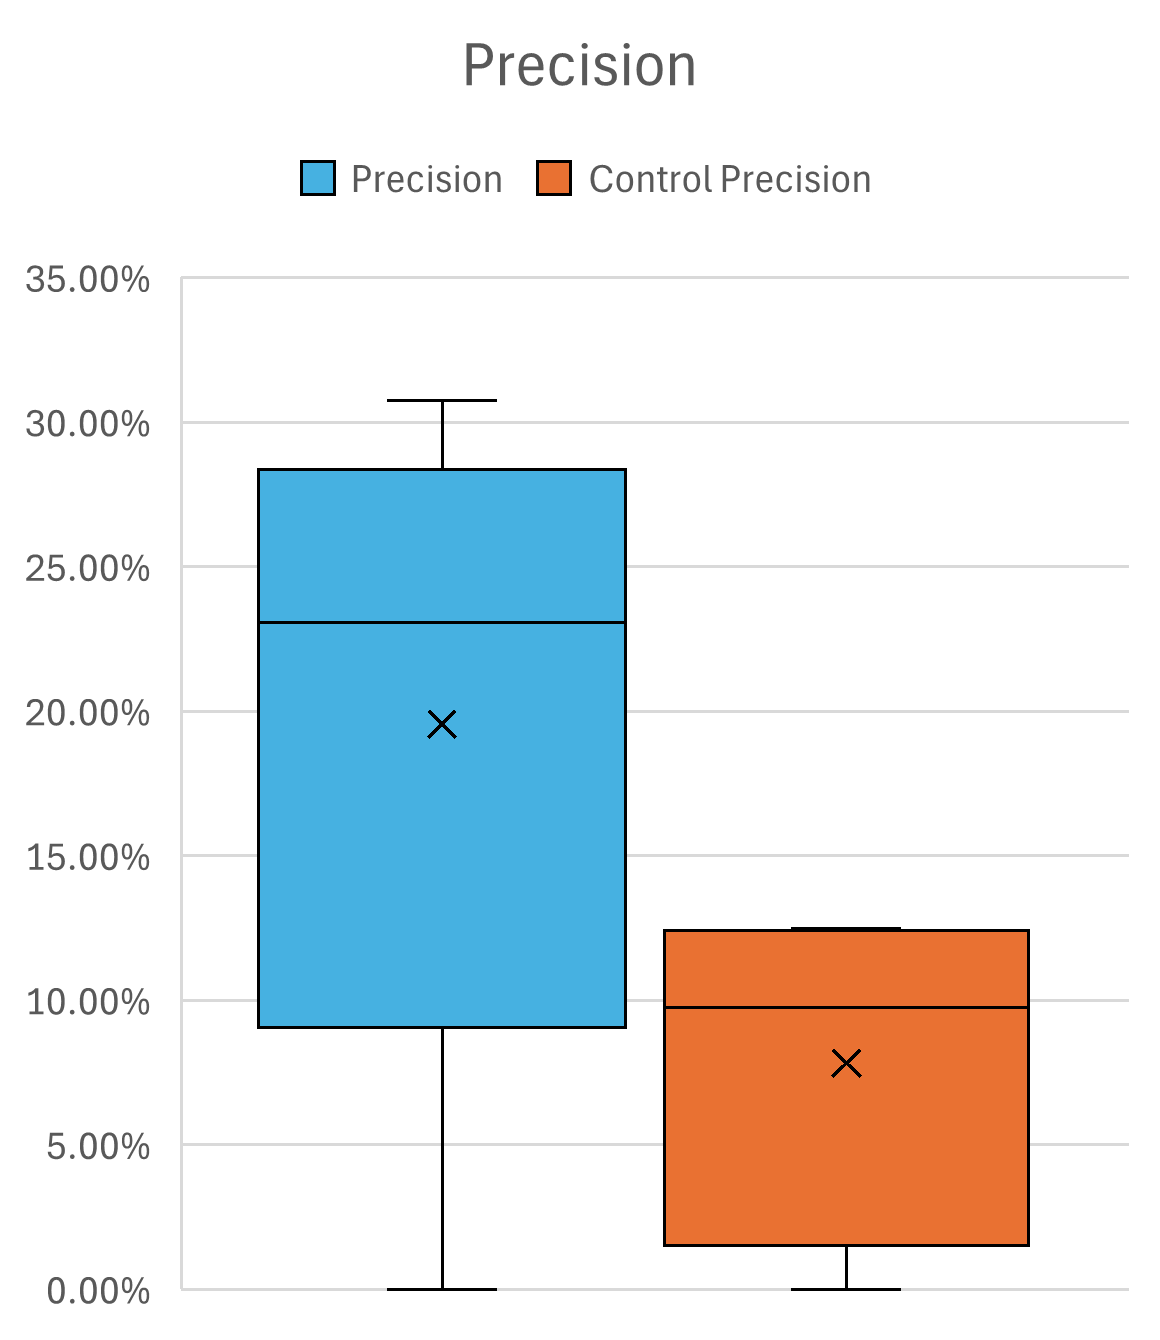
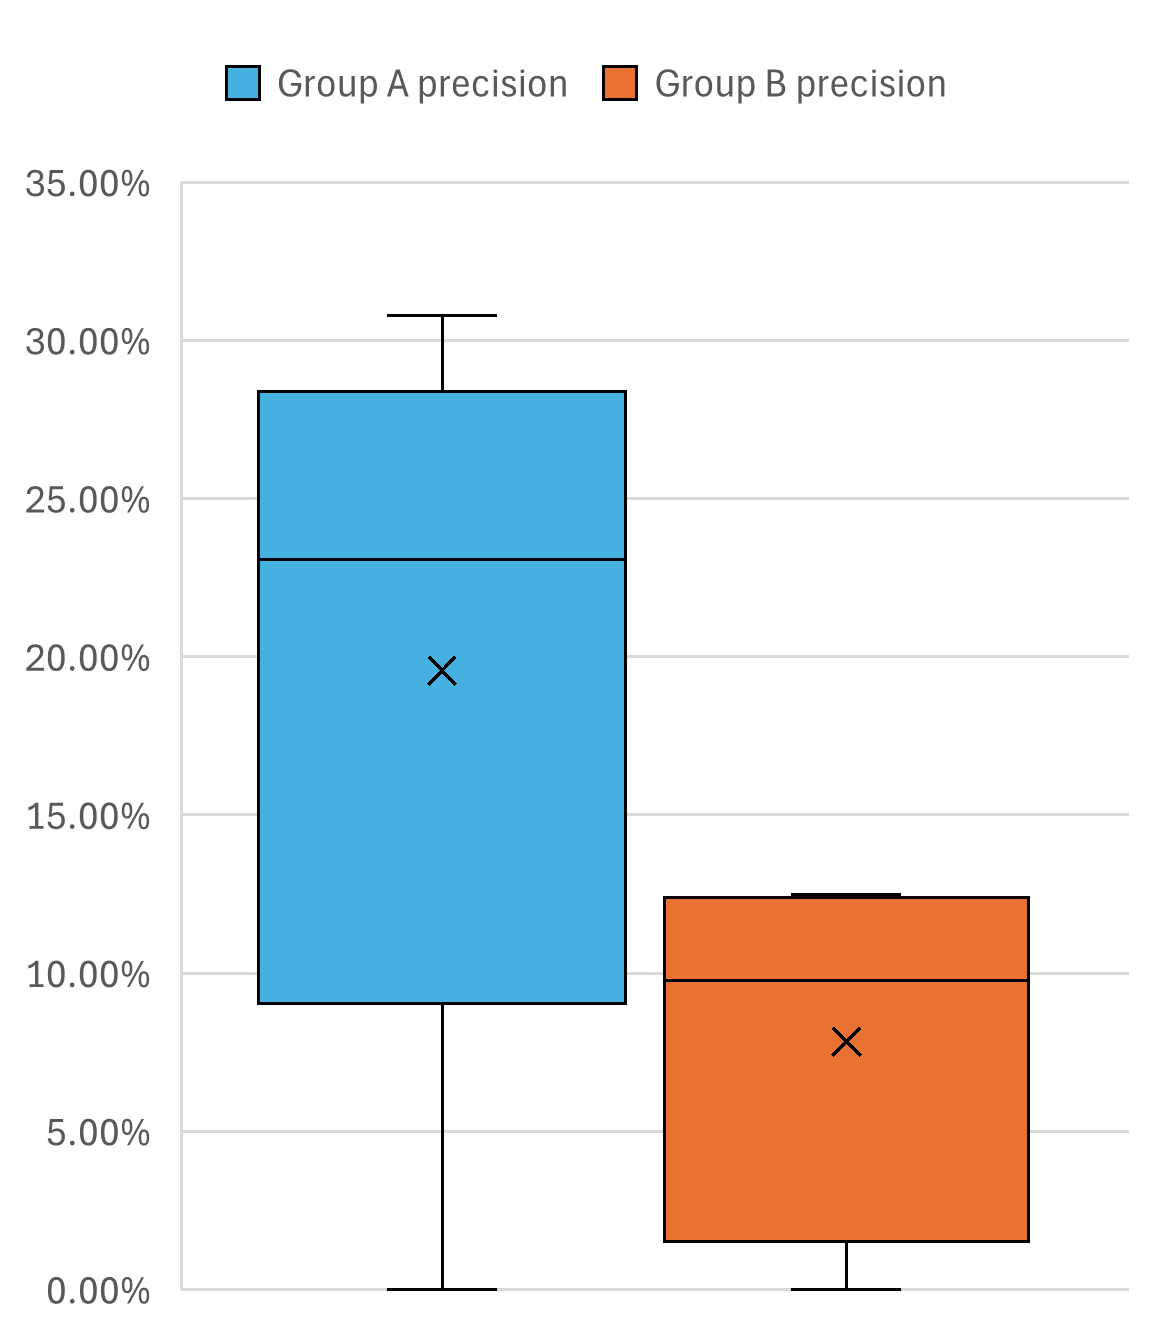
Progress through methods

diff --git a/Full_paper_D1.tex b/Full_paper_D1.tex
@@ -7,6 +7,8 @@
 \usepackage{graphicx}
 \usepackage{textcomp}
 \usepackage{xcolor}
+\usepackage{tikz}
+\usetikzlibrary{positioning}
 \def\BibTeX{{\rm B\kern-.05em{\sc i\kern-.025em b}\kern-.08em
     T\kern-.1667em\lower.7ex\hbox{E}\kern-.125emX}}
 \begin{document}
@@ -20,6 +22,9 @@
 Cookeville, United States \\
 doanefranklin89@gmail.edu}
 }
+
+% talk about the goal of the penalty somewhere
+% chart outlines?
 
 \maketitle
 
@@ -35,26 +40,128 @@ doanefranklin89@gmail.edu}
 
 \section{Related work}
 
-\subsection{LSTMs for market prediction}
-Mei Sun, Qingtau Li, and Peiguang Lang, published work that was focused on using LSTM architecture for market price prediction \cite{b1}. 
-Much like this work, they were aiming to use LSTM architecture for short-term price prediction; however, their focus was heavily on featuring engineering through the use of singular value composition (SVD).
-Qi Li, Norshaliza Kamaruddin, Siti Sophiayati Yuhaniz and Hamdan Amer Ali Al-Jaifi also have done work in this area \cite{b2}. Their work was on the use of LSTMs for price prediction. They aimed to augment it with the use of Symbolic Genetic Programming (SGP).
-While both of these use combine different methods with LSTM architecture to predict market prices, this work is distinct it its use of penalties for model logits.
+    \subsection{LSTMs for market prediction}
+    Mei Sun, Qingtau Li, and Peiguang Lang, published work that was focused on using LSTM architecture for market price prediction \cite{b1}. 
+    Much like this work, they were aiming to use LSTM architecture for short-term price prediction; however, their focus was heavily on featuring engineering through the use of singular value composition (SVD).
+    Qi Li, Norshaliza Kamaruddin, Siti Sophiayati Yuhaniz and Hamdan Amer Ali Al-Jaifi also have done work in this area \cite{b2}. Their work was on the use of LSTMs for price prediction. They aimed to augment it with the use of Symbolic Genetic Programming (SGP).
+    While both of these use combine different methods with LSTM architecture to predict market prices, this work is distinct it its use of penalties for model logits.
 
-\subsection{Penalizing models for market prediction}
-Huifeng Jiang, Xuemei Hu, and Hong Jia explored different methods of penalizing logistic regressors in order to increase their performance as market indicators \cite{b3}. The authors explore penalties that apply to all model coefficients. In this work, the penalties being explored will apply only to model logits.
+    \subsection{Penalizing models for market predictiton}
+    Huifeng Jiang, Xuemei Hu, and Hong Jia explored different methods of penalizing logistic regressors in order to increase their performance as market indicators \cite{b3}. The authors explore penalties that apply to all model coefficients. In this work, the penalties being explored will apply only to model logits.
 
-% go one level deeper on these
+    % go one level deeper on these
 
-\section{Significance of using size penalty}
-    \begin{figure}[htbp]
-    \centerline{\includegraphics[width=\columnwidth]{paper_imgs/CI_chart.png}}
-    \caption{Title}
-    \label{fig2}
-    \end{figure}
+\section{Investigating size penalty significance}
+
+    \subsection{General Methods}
+
+        \subsubsection{Dataset Creation}
+            The all datasets were created by downloading data consisting of daily OHLCV values for each stock being used. The list of stocks being used was determined by picking the 1500 stocks with the largest market cap that also have data for the time periods that the datasets intend to cover.
+
+        \subsubsection{Training Setup}
+            The dataset is loaded and the day of the week is 1-hot-encoded into 5 separate features that are added.
+            The data then gets cut into time series, each with a length of 50. The data from the day following each time series is used to create the label, which consist of the relative increase in high price and low price compared to the close price of the previous day.
+            Each training example gets all of it's price data normalized together on a scale of -1 to 1. Similarly, the volume data gets normalized on a scale of -1 to 1.
+            15\% of the training examples are sliced off of the back of the dataset to become the validation set.
+            The ordering of the training set gets shuffled according to a random seed.
+            The training data gets split into whole batches of size 200.
+            The model is initialized with random parameters. The model architecture is depicted in ``Fig.~\ref{fig1}''.
+
+            % figure created with major help from ChatGPT
+            \begin{figure}[htbp]
+                \centering
+                \tikzset{%
+                    layer/.style={rectangle, draw, minimum width=2.5cm, minimum height=0.7cm, text centered, rounded corners},
+                    arrow/.style={->, thick}
+                }
+
+                \begin{tikzpicture}[node distance=0.6cm]
+                    % Layers
+                    \node[layer] (input) {Input: 50$\times$10};
+                    \node[layer, below=of input] (lstm) {LSMT: 64 hidden units};
+                    \node[layer, below=of lstm] (full1) {Fully connected: 32 units, Leaky ReLU (leak = 1e-5)};
+                    \node[layer, below=of full1] (full2) {Fully connected: 2 units};
+                    \node[layer, below=of full2] (out) {Output};
+
+                    % Arrows
+                    \draw[arrow] (input) -- (lstm);
+                    \draw[arrow] (lstm) -- (full1);
+                    \draw[arrow] (full1) -- (full2);
+                    \draw[arrow] (full2) -- (out);
+                \end{tikzpicture}
+
+                \caption{Model architecture.}
+                \label{fig1}
+            \end{figure}
+
+        \subsubsection{Training Methods}
+            The loss for each batch is calculated with formula ``\eqref{loss}'' . The formula utilizes Mean Squared Error loss and a magnitude penalty for the logits.
+            \begin{equation}
+                Loss = mse(Y, \hat{Y}) + \lambda\sum_{i=1}^{B}(\hat{Y}_{i, 1}) - \lambda\sum_{i=1}^{B}(\hat{Y}_{i, 2})\label{loss}
+            \end{equation}
+            Here the logit at index 0 is the high price that the model is predicting, and at index 1 is the low price. B represents the batch size, and $\lambda$ is the size penalty coefficient.
+            The loss is backpropagated for each batch, and the parameters are updated with the Adam optimizer. The learning rate for the optimizer starts at 1e-3, and is set by PyTorch's LowerOnPlateau scheduler. The metric tracked by the scheduler is validation loss.
+            At the end of each epoch, validation occurs. The model predicts all of the examples in the validation set and loss is calculated. Unlike during training, the loss in validation is calculated as a pure Mean Squared Error loss with no penalties. The loss is then used to update the learning rate scheduler.
+
+        \subsubsection{Testing}
+            The testing dataset undergoes feature calculation and normalization in the same manner as the training set. An agent is created with a trading balance of \$100. The agent employs a simple trading algorithm that aims to only use strong positive signals. If the model predicts a high price increase $ \ge 5\% $ and a low price increase $ > -0.1\% $, the agent purchases the stock at the close price for that day. The agent's balance is evenly split between all of the stocks chosen by the model, as long as each getting a minimum of \$1.
+            For each position that the agent opened, it closes the position at a price from the following day. The agent is attempting to sell the position a $ \ge 5\% $ increase, but will stop-loss if the price is $ \le -0.1\% $. The outcome of the position is determined using the logic detailed in ``Fig.~\ref{fig2}''. 
+            The price that each position would've sold for is used to update the agent balance. Each position is checked first to see if the trading parameters would have caused it to sell at the open price. Then it is checked to see if it would sell during the day. Note the outcome where an a position value of both $ \le -0.1\% $ and $ \ge 5\% $ occur during a day. Since it is ambiguous which would've happened first when using daily candlestick data, it is considered a stop-loss in the interest of being conservative.
+            \begin{figure}[htbp]
+            \centerline{\includegraphics[width=\columnwidth]{MM_testing.png}}
+            \caption{Possible position outcomes.}
+            \label{fig2}
+            \end{figure}
+        Each position that is sold at or above the aim of a $ 5\% $ increase is counted as a successful trade and a true positive from the agents perspective. Each position that is sold at or below the stop-loss value of a $ -0.01\% $ is considered a false positive. Any position that does close at either the desired price or the stop-loss would be sold for the close price at the end of the day. Such situations are also considered unsuccessful.
+        After process is repeated for every timestamp, the total balance increase is calculated for the whole time span, along with the rates at which each of the outcomes occur. These rates are used to calculate classification metrics like precision.  
+
+    \subsection{Selecting the size penalty coefficient}
+
+        Using all of the general methods, 5 models were created with different size penalty coefficients. The values ranged from $ 2*10^{-5} $ to $ 5*10^{-4} $. The value $ 3*10^{-4} $ was selected because it had the highest precision and return when tested.
+
+    \subsection{Size penalty comparison with control model}
+
+        With the size penalty coefficient $ \Lambda $ selected, the model was then tested to see how it performed against a control model. Using the general methods, 8 models were trained with the size penalty coefficient $ \Lambda = 3*10^{-4} $. Each one was trained on market data from all 1500 stocks from 2013 through 2014. 
+        The collection of these models will be referred to as Group A. For each of these models, a corresponding model was trained with a size penalty coefficient $ \Lambda = 0 $. Each corresponding model used the same random seed for the training data shuffle, so as to have complete parity in every part of the training process except the size penalty.
+        This collection of models will be referred to as Group B. After testing all of the models on data from the year 2016, it was found that 5 of the 8 penalized models from Group A had a higher return than their Group B counterparts. The distributions of the total return at the end of the year for both model groups can be seen in ``Fig.~\ref{BW_return_seeds}''.
+
+        \begin{figure}[htbp]
+            \centerline{\includegraphics[width=\columnwidth]{paper_imgs/BW_return_seeds.png}}
+            \caption{Distributions of annual returns for penalized and un-penalized models.}
+            \label{BW_return_seeds}
+        \end{figure}
+
+        As indicated in ``Fig.~\ref{BW_return_seeds}'', both the median and mean return were higher in Group A compared to Group B.
+        The 2 groups had other performance differences. As intended, penalizing higher predictions lowered the positive rates for the agents using Group A models compared to Group B. 
+        ``Fig.~\ref{BW_pos_seeds}'' illustrates this.
+
+        \begin{figure}[htbp]
+            \centerline{\includegraphics[width=\columnwidth]{paper_imgs/BW_pos_seeds.png}}
+            \caption{Distributions of positive rates using penalized and un-penalized models.}
+            \label{BW_pos_seeds}
+        \end{figure}
+
+        The higher selectivity exhibited in Group B is also correlated with a higher precision as demonstrated in ``Fig.~\ref{BW_precs_seeds}''.
+
+        \begin{figure}[htbp]
+            \centerline{\includegraphics[width=\columnwidth]{paper_imgs/BW_precs_seeds.png}}
+            \caption{Distributions of precision using penalized and un-penalized models.}
+            \label{BW_precs_seeds}
+        \end{figure}
+
+        In 
+
+
+        \begin{figure}[htbp]
+            \centerline{\includegraphics[width=\columnwidth]{paper_imgs/CI_chart.png}}
+            \caption{95\}
+            \label{CI_seeds}
+        \end{figure}
+
 \section{Significance over time}
+    
 
-
+    
 
 \section{Results}
 \section{Conclusion}
